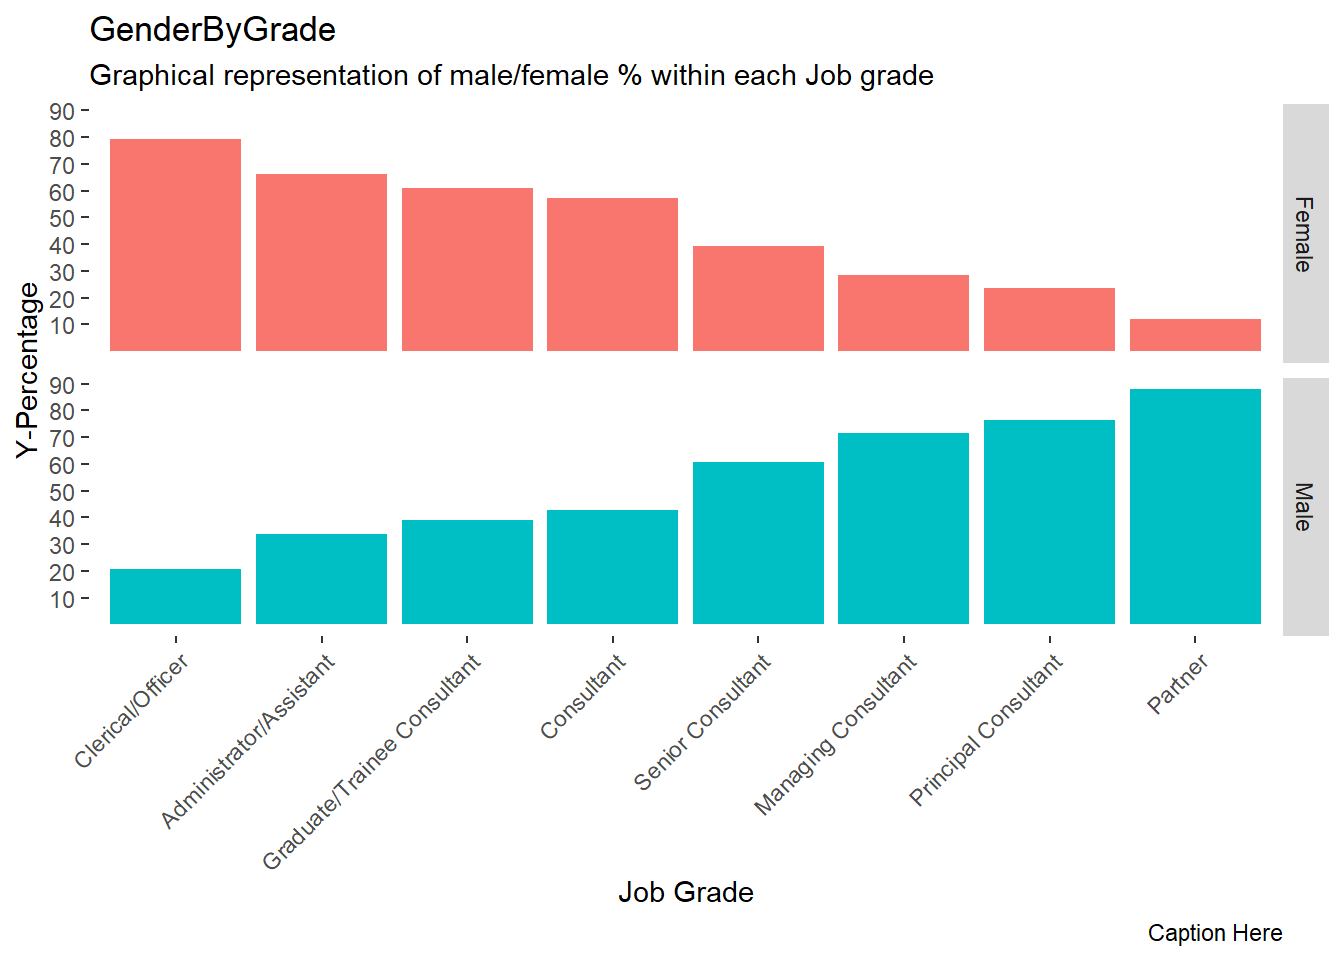
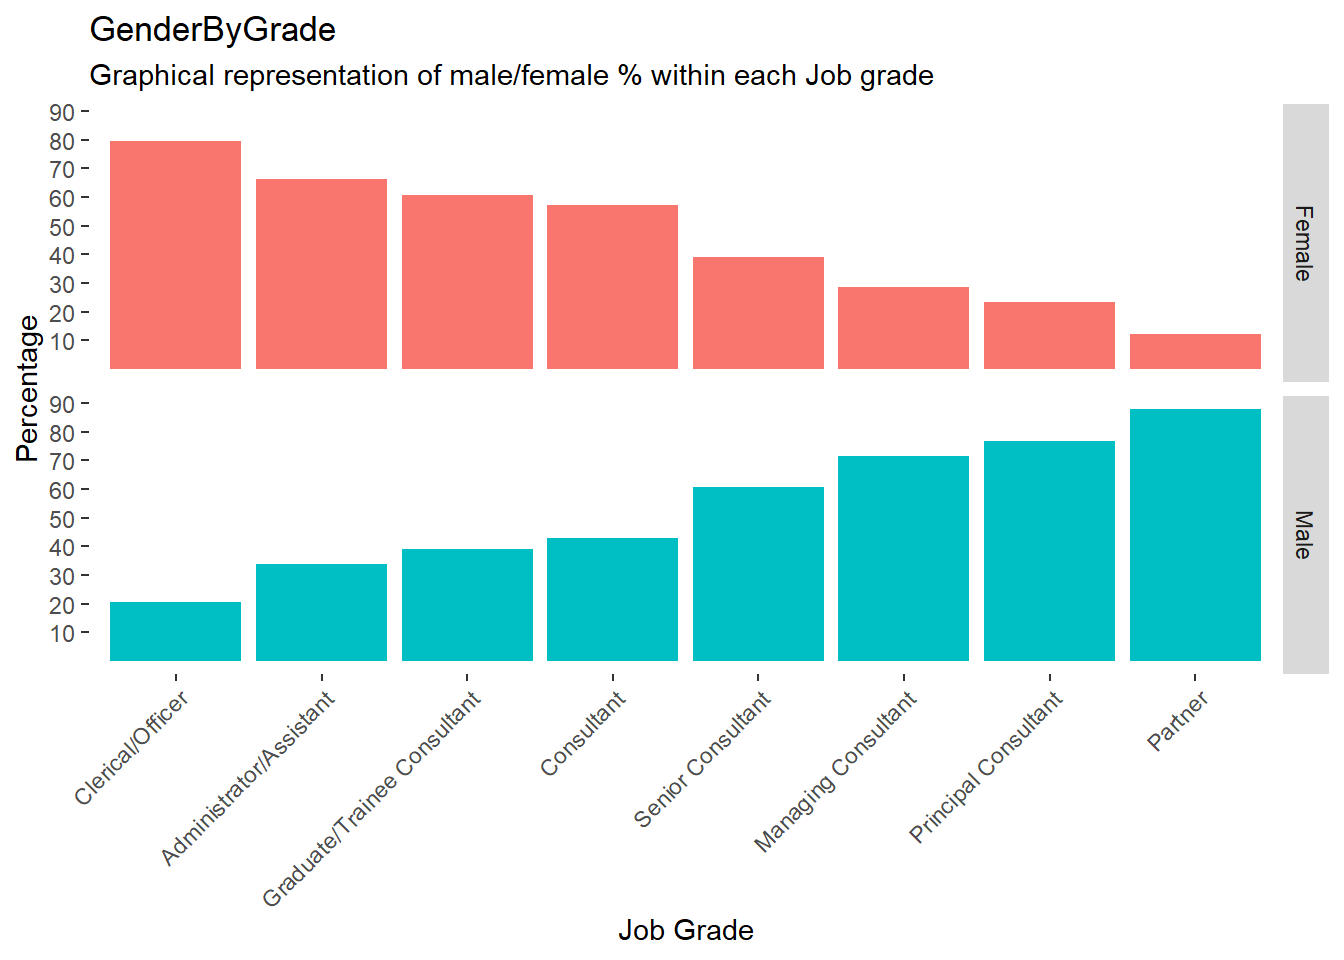
update#24

diff --git a/docs/posts/2023-09-14-frequency-tables-and-chi-squared-test/index.html b/docs/posts/2023-09-14-frequency-tables-and-chi-squared-test/index.html
@@ -269,7 +269,7 @@ pre > code.sourceCode > span > a:first-child::before { text-decoration: underlin
 </section>
 <section id="case-study-gaining-insights-with-chi-squared-test-and-frequency-tables" class="level1">
 <h1>Case Study: Gaining Insights with Chi-Squared Test and Frequency Tables</h1>
-<p>In this section, we will consider a case study focused on diversity and inclusion (D&amp;I).The case study is sourced from the book <a href="https://www.amazon.com/Predictive-HR-Analytics-Mastering-Metric/dp/0749473916">Predictive HR Analytics : Mastering the HR Metric</a>. Our exploration will cover the creation of frequency tables in R using both base R functions and the <code>tidyverse</code> packages. Additionally we will be going over the Chi Square test and its implementation using R.</p>
+<p>In this section, we will consider a case study focused on diversity and inclusion (D&amp;I).The case study is sourced from the book <a href="https://www.amazon.com/Predictive-HR-Analytics-Mastering-Metric/dp/0749473916">Predictive HR Analytics : Mastering the HR Metric</a>. Our exploration will cover the creation of frequency tables in R using both base R functions and the <code>tidyverse</code> and <code>ggplot2</code> packages. Additionally we will be going over the Chi Square test and its implementation using R.</p>
 <section id="the-business-problem" class="level2">
 <h2 class="anchored" data-anchor-id="the-business-problem">The Business Problem</h2>
 <p>The company aims to investigate the possible underrepresentation of women in senior leadership roles within the organization. This inquiry is motivated by both commercial and people-centric considerations. From a commercial standpoint, the organization seeks to foster a greater diversity of thought in senior and strategic discussions. On the other hand, from a people perspective, the organization wants to assess whether it maintains gender balance by providing positive role models for younger employees.</p>
@@ -514,11 +514,10 @@ JobGrade                      Female Male
 <span id="cb18-6"><a href="#cb18-6" aria-hidden="true" tabindex="-1"></a>        <span class="at">panel.background =</span> <span class="fu">element_blank</span>())<span class="sc">+</span></span>
 <span id="cb18-7"><a href="#cb18-7" aria-hidden="true" tabindex="-1"></a>   <span class="fu">labs</span>(<span class="at">title =</span> <span class="st">"GenderByGrade"</span>, </span>
 <span id="cb18-8"><a href="#cb18-8" aria-hidden="true" tabindex="-1"></a>       <span class="at">subtitle =</span> <span class="st">"Graphical representation of male/female % within each Job grade"</span>, </span>
-<span id="cb18-9"><a href="#cb18-9" aria-hidden="true" tabindex="-1"></a>       <span class="at">caption =</span> <span class="st">"Caption Here"</span>, </span>
-<span id="cb18-10"><a href="#cb18-10" aria-hidden="true" tabindex="-1"></a>       <span class="at">x =</span> <span class="st">"Job Grade"</span>, </span>
-<span id="cb18-11"><a href="#cb18-11" aria-hidden="true" tabindex="-1"></a>       <span class="at">y =</span> <span class="st">"Y-Percentage"</span>, </span>
-<span id="cb18-12"><a href="#cb18-12" aria-hidden="true" tabindex="-1"></a>       <span class="at">fill =</span> <span class="st">"Gender"</span>)<span class="sc">+</span></span>
-<span id="cb18-13"><a href="#cb18-13" aria-hidden="true" tabindex="-1"></a>   <span class="fu">scale_y_continuous</span>(<span class="at">breaks=</span><span class="fu">seq</span>(<span class="dv">10</span>, <span class="dv">100</span>, <span class="at">by=</span><span class="dv">10</span>))</span></code><button title="Copy to Clipboard" class="code-copy-button"><i class="bi"></i></button></pre></div>
+<span id="cb18-9"><a href="#cb18-9" aria-hidden="true" tabindex="-1"></a>       <span class="at">x =</span> <span class="st">"Job Grade"</span>, </span>
+<span id="cb18-10"><a href="#cb18-10" aria-hidden="true" tabindex="-1"></a>       <span class="at">y =</span> <span class="st">"Percentage"</span>, </span>
+<span id="cb18-11"><a href="#cb18-11" aria-hidden="true" tabindex="-1"></a>       <span class="at">fill =</span> <span class="st">"Gender"</span>)<span class="sc">+</span></span>
+<span id="cb18-12"><a href="#cb18-12" aria-hidden="true" tabindex="-1"></a>   <span class="fu">scale_y_continuous</span>(<span class="at">breaks=</span><span class="fu">seq</span>(<span class="dv">10</span>, <span class="dv">100</span>, <span class="at">by=</span><span class="dv">10</span>))</span></code><button title="Copy to Clipboard" class="code-copy-button"><i class="bi"></i></button></pre></div>
 </details>
 <div class="cell-output-display">
 <p><img src="index_files/figure-html/graphical-representation-1.png" class="img-fluid" width="672"></p>
@@ -907,7 +906,7 @@ window.document.addEventListener("DOMContentLoaded", function (event) {
 <span id="cb21-51"><a href="#cb21-51" aria-hidden="true" tabindex="-1"></a></span>
 <span id="cb21-52"><a href="#cb21-52" aria-hidden="true" tabindex="-1"></a><span class="fu"># Case Study: Gaining Insights with Chi-Squared Test and Frequency Tables</span></span>
 <span id="cb21-53"><a href="#cb21-53" aria-hidden="true" tabindex="-1"></a></span>
-<span id="cb21-54"><a href="#cb21-54" aria-hidden="true" tabindex="-1"></a>In this section, we will consider a case study focused on diversity and inclusion (D&amp;I).The case study is sourced from the book <span class="co">[</span><span class="ot">Predictive HR Analytics : Mastering the HR Metric</span><span class="co">](https://www.amazon.com/Predictive-HR-Analytics-Mastering-Metric/dp/0749473916)</span>. Our exploration will cover the creation of frequency tables in R using both base R functions and the <span class="in">`tidyverse`</span> packages. Additionally we will be going over the Chi Square test and its implementation using R.</span>
+<span id="cb21-54"><a href="#cb21-54" aria-hidden="true" tabindex="-1"></a>In this section, we will consider a case study focused on diversity and inclusion (D&amp;I).The case study is sourced from the book <span class="co">[</span><span class="ot">Predictive HR Analytics : Mastering the HR Metric</span><span class="co">](https://www.amazon.com/Predictive-HR-Analytics-Mastering-Metric/dp/0749473916)</span>. Our exploration will cover the creation of frequency tables in R using both base R functions and the <span class="in">`tidyverse`</span> and <span class="in">`ggplot2`</span> packages. Additionally we will be going over the Chi Square test and its implementation using R.</span>
 <span id="cb21-55"><a href="#cb21-55" aria-hidden="true" tabindex="-1"></a></span>
 <span id="cb21-56"><a href="#cb21-56" aria-hidden="true" tabindex="-1"></a><span class="fu">## The Business Problem</span></span>
 <span id="cb21-57"><a href="#cb21-57" aria-hidden="true" tabindex="-1"></a></span>
@@ -1039,55 +1038,54 @@ window.document.addEventListener("DOMContentLoaded", function (event) {
 <span id="cb21-195"><a href="#cb21-195" aria-hidden="true" tabindex="-1"></a>        <span class="at">panel.background =</span> <span class="fu">element_blank</span>())<span class="sc">+</span></span>
 <span id="cb21-196"><a href="#cb21-196" aria-hidden="true" tabindex="-1"></a>   <span class="fu">labs</span>(<span class="at">title =</span> <span class="st">"GenderByGrade"</span>, </span>
 <span id="cb21-197"><a href="#cb21-197" aria-hidden="true" tabindex="-1"></a>       <span class="at">subtitle =</span> <span class="st">"Graphical representation of male/female % within each Job grade"</span>, </span>
-<span id="cb21-198"><a href="#cb21-198" aria-hidden="true" tabindex="-1"></a>       <span class="at">caption =</span> <span class="st">"Caption Here"</span>, </span>
-<span id="cb21-199"><a href="#cb21-199" aria-hidden="true" tabindex="-1"></a>       <span class="at">x =</span> <span class="st">"Job Grade"</span>, </span>
-<span id="cb21-200"><a href="#cb21-200" aria-hidden="true" tabindex="-1"></a>       <span class="at">y =</span> <span class="st">"Y-Percentage"</span>, </span>
-<span id="cb21-201"><a href="#cb21-201" aria-hidden="true" tabindex="-1"></a>       <span class="at">fill =</span> <span class="st">"Gender"</span>)<span class="sc">+</span></span>
-<span id="cb21-202"><a href="#cb21-202" aria-hidden="true" tabindex="-1"></a>   <span class="fu">scale_y_continuous</span>(<span class="at">breaks=</span><span class="fu">seq</span>(<span class="dv">10</span>, <span class="dv">100</span>, <span class="at">by=</span><span class="dv">10</span>))</span>
-<span id="cb21-203"><a href="#cb21-203" aria-hidden="true" tabindex="-1"></a></span>
-<span id="cb21-204"><a href="#cb21-204" aria-hidden="true" tabindex="-1"></a><span class="in">```</span></span>
-<span id="cb21-205"><a href="#cb21-205" aria-hidden="true" tabindex="-1"></a></span>
-<span id="cb21-206"><a href="#cb21-206" aria-hidden="true" tabindex="-1"></a><span class="fu"># Chi-Squared Test</span></span>
-<span id="cb21-207"><a href="#cb21-207" aria-hidden="true" tabindex="-1"></a></span>
-<span id="cb21-208"><a href="#cb21-208" aria-hidden="true" tabindex="-1"></a>For the Chi-Squared test we begin by making two hypotheses:</span>
-<span id="cb21-209"><a href="#cb21-209" aria-hidden="true" tabindex="-1"></a></span>
-<span id="cb21-210"><a href="#cb21-210" aria-hidden="true" tabindex="-1"></a>H0: There is no association between gender and job grade within the organization. The observed distribution of females and males across job grades is due to random chance.</span>
-<span id="cb21-211"><a href="#cb21-211" aria-hidden="true" tabindex="-1"></a></span>
-<span id="cb21-212"><a href="#cb21-212" aria-hidden="true" tabindex="-1"></a>H1: There is a significant association between gender and job grade within the organization. The observed distribution of females and males across job grades is not a result of random chance; it reflects a significant pattern of male predominance in senior roles and a greater representation of females in entry-level positions</span>
-<span id="cb21-213"><a href="#cb21-213" aria-hidden="true" tabindex="-1"></a></span>
-<span id="cb21-214"><a href="#cb21-214" aria-hidden="true" tabindex="-1"></a>When conducted, the test gives us a "p" value as the result, using which you conclude whether your hypothesis of independence is true or not. In simple words, the "p" value is just the likelihood of your variables being independent.</span>
-<span id="cb21-215"><a href="#cb21-215" aria-hidden="true" tabindex="-1"></a></span>
-<span id="cb21-216"><a href="#cb21-216" aria-hidden="true" tabindex="-1"></a>Particularly in this test, it's crucial to examine the p-values. If the resulting p-value is lower than the typical predetermined significance level of 0.05, we would then reject the null hypothesis.</span>
-<span id="cb21-217"><a href="#cb21-217" aria-hidden="true" tabindex="-1"></a></span>
-<span id="cb21-218"><a href="#cb21-218" aria-hidden="true" tabindex="-1"></a><span class="fu">## Conducting a Chi Square Test in R</span></span>
-<span id="cb21-219"><a href="#cb21-219" aria-hidden="true" tabindex="-1"></a></span>
-<span id="cb21-220"><a href="#cb21-220" aria-hidden="true" tabindex="-1"></a>We will utilize data from "CrossTable", which provides information about gender and job grade.</span>
-<span id="cb21-221"><a href="#cb21-221" aria-hidden="true" tabindex="-1"></a></span>
-<span id="cb21-222"><a href="#cb21-222" aria-hidden="true" tabindex="-1"></a>The "chisq.test()" function is an built-in function of R that enables you to perform the Chi-Square test. It will provide us with all the necessary information to determine the independence of variables within a data set and help us conclude whether they are related or not.</span>
-<span id="cb21-223"><a href="#cb21-223" aria-hidden="true" tabindex="-1"></a></span>
-<span id="cb21-226"><a href="#cb21-226" aria-hidden="true" tabindex="-1"></a><span class="in">```{r}</span></span>
-<span id="cb21-227"><a href="#cb21-227" aria-hidden="true" tabindex="-1"></a><span class="co">#| label: chi-squared-test</span></span>
-<span id="cb21-228"><a href="#cb21-228" aria-hidden="true" tabindex="-1"></a><span class="co">#| echo: true</span></span>
-<span id="cb21-229"><a href="#cb21-229" aria-hidden="true" tabindex="-1"></a></span>
-<span id="cb21-230"><a href="#cb21-230" aria-hidden="true" tabindex="-1"></a><span class="fu">chisq.test</span>(CrossTable)</span>
-<span id="cb21-231"><a href="#cb21-231" aria-hidden="true" tabindex="-1"></a></span>
-<span id="cb21-232"><a href="#cb21-232" aria-hidden="true" tabindex="-1"></a><span class="in">```</span></span>
-<span id="cb21-233"><a href="#cb21-233" aria-hidden="true" tabindex="-1"></a></span>
-<span id="cb21-234"><a href="#cb21-234" aria-hidden="true" tabindex="-1"></a>The p-value is extremely small, less than 2.2e-16, which is very close to zero. Since the p-value is less than the significance level of 0.05, we can confidently reject the null hypothesis, concluding that the two variables are dependent.</span>
-<span id="cb21-235"><a href="#cb21-235" aria-hidden="true" tabindex="-1"></a></span>
-<span id="cb21-236"><a href="#cb21-236" aria-hidden="true" tabindex="-1"></a>This result indicates a statistically significant association between gender and job grade. It suggests that certain factors are influencing the observed distribution of genders within job grades.</span>
-<span id="cb21-237"><a href="#cb21-237" aria-hidden="true" tabindex="-1"></a></span>
-<span id="cb21-238"><a href="#cb21-238" aria-hidden="true" tabindex="-1"></a>However, we cannot definitively determine whether these factors may involve forms of discrimination. Further analysis is needed to investigate this possibility.</span>
-<span id="cb21-239"><a href="#cb21-239" aria-hidden="true" tabindex="-1"></a></span>
-<span id="cb21-240"><a href="#cb21-240" aria-hidden="true" tabindex="-1"></a><span class="fu"># Conclusions</span></span>
-<span id="cb21-241"><a href="#cb21-241" aria-hidden="true" tabindex="-1"></a></span>
-<span id="cb21-242"><a href="#cb21-242" aria-hidden="true" tabindex="-1"></a>In this article, we explored the power of two fundamental tools for analyzing categorical data: frequency tables and the chi-squared test. Frequency tables provide a clear summary of the distribution and patterns within categorical variables, while the chi-squared test helps us determine if there's a significant relationship between two categorical variables.</span>
-<span id="cb21-243"><a href="#cb21-243" aria-hidden="true" tabindex="-1"></a></span>
-<span id="cb21-244"><a href="#cb21-244" aria-hidden="true" tabindex="-1"></a>Through a case study on gender representation in senior roles, we demonstrated how these tools can reveal crucial insights. We found a noticeable gender disparity, with men predominantly occupying senior positions and women largely in junior roles.</span>
-<span id="cb21-245"><a href="#cb21-245" aria-hidden="true" tabindex="-1"></a></span>
-<span id="cb21-246"><a href="#cb21-246" aria-hidden="true" tabindex="-1"></a>The chi-squared test's results, with a p-value close to zero, confirmed a significant association between gender and job grade. While this statistical evidence does not directly imply discrimination, it signals that factors beyond chance influence this distribution.</span>
-<span id="cb21-247"><a href="#cb21-247" aria-hidden="true" tabindex="-1"></a></span>
-<span id="cb21-248"><a href="#cb21-248" aria-hidden="true" tabindex="-1"></a>To address potential discrimination and foster diversity and inclusion, further analysis and actions are necessary. These tools empower organizations to make data-driven decisions and drive positive change in their workforce dynamics.</span>
+<span id="cb21-198"><a href="#cb21-198" aria-hidden="true" tabindex="-1"></a>       <span class="at">x =</span> <span class="st">"Job Grade"</span>, </span>
+<span id="cb21-199"><a href="#cb21-199" aria-hidden="true" tabindex="-1"></a>       <span class="at">y =</span> <span class="st">"Percentage"</span>, </span>
+<span id="cb21-200"><a href="#cb21-200" aria-hidden="true" tabindex="-1"></a>       <span class="at">fill =</span> <span class="st">"Gender"</span>)<span class="sc">+</span></span>
+<span id="cb21-201"><a href="#cb21-201" aria-hidden="true" tabindex="-1"></a>   <span class="fu">scale_y_continuous</span>(<span class="at">breaks=</span><span class="fu">seq</span>(<span class="dv">10</span>, <span class="dv">100</span>, <span class="at">by=</span><span class="dv">10</span>))</span>
+<span id="cb21-202"><a href="#cb21-202" aria-hidden="true" tabindex="-1"></a></span>
+<span id="cb21-203"><a href="#cb21-203" aria-hidden="true" tabindex="-1"></a><span class="in">```</span></span>
+<span id="cb21-204"><a href="#cb21-204" aria-hidden="true" tabindex="-1"></a></span>
+<span id="cb21-205"><a href="#cb21-205" aria-hidden="true" tabindex="-1"></a><span class="fu"># Chi-Squared Test</span></span>
+<span id="cb21-206"><a href="#cb21-206" aria-hidden="true" tabindex="-1"></a></span>
+<span id="cb21-207"><a href="#cb21-207" aria-hidden="true" tabindex="-1"></a>For the Chi-Squared test we begin by making two hypotheses:</span>
+<span id="cb21-208"><a href="#cb21-208" aria-hidden="true" tabindex="-1"></a></span>
+<span id="cb21-209"><a href="#cb21-209" aria-hidden="true" tabindex="-1"></a>H0: There is no association between gender and job grade within the organization. The observed distribution of females and males across job grades is due to random chance.</span>
+<span id="cb21-210"><a href="#cb21-210" aria-hidden="true" tabindex="-1"></a></span>
+<span id="cb21-211"><a href="#cb21-211" aria-hidden="true" tabindex="-1"></a>H1: There is a significant association between gender and job grade within the organization. The observed distribution of females and males across job grades is not a result of random chance; it reflects a significant pattern of male predominance in senior roles and a greater representation of females in entry-level positions</span>
+<span id="cb21-212"><a href="#cb21-212" aria-hidden="true" tabindex="-1"></a></span>
+<span id="cb21-213"><a href="#cb21-213" aria-hidden="true" tabindex="-1"></a>When conducted, the test gives us a "p" value as the result, using which you conclude whether your hypothesis of independence is true or not. In simple words, the "p" value is just the likelihood of your variables being independent.</span>
+<span id="cb21-214"><a href="#cb21-214" aria-hidden="true" tabindex="-1"></a></span>
+<span id="cb21-215"><a href="#cb21-215" aria-hidden="true" tabindex="-1"></a>Particularly in this test, it's crucial to examine the p-values. If the resulting p-value is lower than the typical predetermined significance level of 0.05, we would then reject the null hypothesis.</span>
+<span id="cb21-216"><a href="#cb21-216" aria-hidden="true" tabindex="-1"></a></span>
+<span id="cb21-217"><a href="#cb21-217" aria-hidden="true" tabindex="-1"></a><span class="fu">## Conducting a Chi Square Test in R</span></span>
+<span id="cb21-218"><a href="#cb21-218" aria-hidden="true" tabindex="-1"></a></span>
+<span id="cb21-219"><a href="#cb21-219" aria-hidden="true" tabindex="-1"></a>We will utilize data from "CrossTable", which provides information about gender and job grade.</span>
+<span id="cb21-220"><a href="#cb21-220" aria-hidden="true" tabindex="-1"></a></span>
+<span id="cb21-221"><a href="#cb21-221" aria-hidden="true" tabindex="-1"></a>The "chisq.test()" function is an built-in function of R that enables you to perform the Chi-Square test. It will provide us with all the necessary information to determine the independence of variables within a data set and help us conclude whether they are related or not.</span>
+<span id="cb21-222"><a href="#cb21-222" aria-hidden="true" tabindex="-1"></a></span>
+<span id="cb21-225"><a href="#cb21-225" aria-hidden="true" tabindex="-1"></a><span class="in">```{r}</span></span>
+<span id="cb21-226"><a href="#cb21-226" aria-hidden="true" tabindex="-1"></a><span class="co">#| label: chi-squared-test</span></span>
+<span id="cb21-227"><a href="#cb21-227" aria-hidden="true" tabindex="-1"></a><span class="co">#| echo: true</span></span>
+<span id="cb21-228"><a href="#cb21-228" aria-hidden="true" tabindex="-1"></a></span>
+<span id="cb21-229"><a href="#cb21-229" aria-hidden="true" tabindex="-1"></a><span class="fu">chisq.test</span>(CrossTable)</span>
+<span id="cb21-230"><a href="#cb21-230" aria-hidden="true" tabindex="-1"></a></span>
+<span id="cb21-231"><a href="#cb21-231" aria-hidden="true" tabindex="-1"></a><span class="in">```</span></span>
+<span id="cb21-232"><a href="#cb21-232" aria-hidden="true" tabindex="-1"></a></span>
+<span id="cb21-233"><a href="#cb21-233" aria-hidden="true" tabindex="-1"></a>The p-value is extremely small, less than 2.2e-16, which is very close to zero. Since the p-value is less than the significance level of 0.05, we can confidently reject the null hypothesis, concluding that the two variables are dependent.</span>
+<span id="cb21-234"><a href="#cb21-234" aria-hidden="true" tabindex="-1"></a></span>
+<span id="cb21-235"><a href="#cb21-235" aria-hidden="true" tabindex="-1"></a>This result indicates a statistically significant association between gender and job grade. It suggests that certain factors are influencing the observed distribution of genders within job grades.</span>
+<span id="cb21-236"><a href="#cb21-236" aria-hidden="true" tabindex="-1"></a></span>
+<span id="cb21-237"><a href="#cb21-237" aria-hidden="true" tabindex="-1"></a>However, we cannot definitively determine whether these factors may involve forms of discrimination. Further analysis is needed to investigate this possibility.</span>
+<span id="cb21-238"><a href="#cb21-238" aria-hidden="true" tabindex="-1"></a></span>
+<span id="cb21-239"><a href="#cb21-239" aria-hidden="true" tabindex="-1"></a><span class="fu"># Conclusions</span></span>
+<span id="cb21-240"><a href="#cb21-240" aria-hidden="true" tabindex="-1"></a></span>
+<span id="cb21-241"><a href="#cb21-241" aria-hidden="true" tabindex="-1"></a>In this article, we explored the power of two fundamental tools for analyzing categorical data: frequency tables and the chi-squared test. Frequency tables provide a clear summary of the distribution and patterns within categorical variables, while the chi-squared test helps us determine if there's a significant relationship between two categorical variables.</span>
+<span id="cb21-242"><a href="#cb21-242" aria-hidden="true" tabindex="-1"></a></span>
+<span id="cb21-243"><a href="#cb21-243" aria-hidden="true" tabindex="-1"></a>Through a case study on gender representation in senior roles, we demonstrated how these tools can reveal crucial insights. We found a noticeable gender disparity, with men predominantly occupying senior positions and women largely in junior roles.</span>
+<span id="cb21-244"><a href="#cb21-244" aria-hidden="true" tabindex="-1"></a></span>
+<span id="cb21-245"><a href="#cb21-245" aria-hidden="true" tabindex="-1"></a>The chi-squared test's results, with a p-value close to zero, confirmed a significant association between gender and job grade. While this statistical evidence does not directly imply discrimination, it signals that factors beyond chance influence this distribution.</span>
+<span id="cb21-246"><a href="#cb21-246" aria-hidden="true" tabindex="-1"></a></span>
+<span id="cb21-247"><a href="#cb21-247" aria-hidden="true" tabindex="-1"></a>To address potential discrimination and foster diversity and inclusion, further analysis and actions are necessary. These tools empower organizations to make data-driven decisions and drive positive change in their workforce dynamics.</span>
 </code><button title="Copy to Clipboard" class="code-copy-button"><i class="bi"></i></button></pre></div>
 </div></div></div></div></div>
 </div> <!-- /content -->

diff --git a/docs/index.html b/docs/index.html
@@ -207,7 +207,7 @@ ul.task-list li input[type="checkbox"] {
     </div>
 </div>
 <div class="list grid quarto-listing-cols-3">
-<div class="g-col-1" data-index="0" data-categories="frequency tables,chi-squared test,categorical variables,quantitative analysis" data-listing-date-sort="1694638800000" data-listing-file-modified-sort="1694765419899" data-listing-date-modified-sort="NaN" data-listing-reading-time-sort="10">
+<div class="g-col-1" data-index="0" data-categories="frequency tables,chi-squared test,categorical variables,quantitative analysis" data-listing-date-sort="1694638800000" data-listing-file-modified-sort="1694770382483" data-listing-date-modified-sort="NaN" data-listing-reading-time-sort="10">
 <a href="./posts/2023-09-14-frequency-tables-and-chi-squared-test/index.html" class="quarto-grid-link">
 <div class="quarto-grid-item card h-100 card-left">
 <p class="card-img-top">
